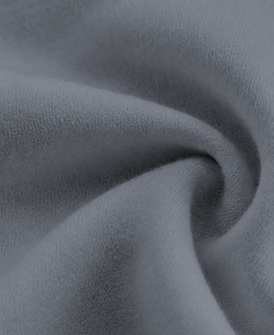
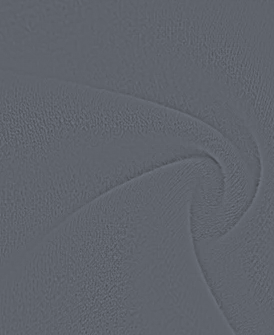
Corriger le flou/étiquette grisée sur les coloris Noir et Gris Bleu
La recoloration ancrait toute une photo sur UNE médiane de luminosité
globale calculée sur tout le t-shirt. L'étiquette intérieure (tissu
clair, texte imprimé) est un matériau bien plus petit et bien plus
contrasté localement que le grand pan de tissu du t-shirt — ancrée sur
la médiane globale du t-shirt, elle ressortait en gris délavé et flou
au lieu d'un noir net avec texte clair, ce qui donnait aussi
l'impression générale d'un rendu flou.

Remplacé la médiane globale par une moyenne locale (petit voisinage
gaussien pondéré par le masque), pour que chaque zone — étiquette
comprise — s'ancre sur son propre contexte de luminosité au lieu de
celui de tout le vêtement.

Claude-Session: https://claude.ai/code/session_01JcT3HfdB21VBu6dsokyrCK

diff --git a/scripts/recolor-catalog.py b/scripts/recolor-catalog.py
@@ -115,22 +115,38 @@ def garment_mask(arr: np.ndarray) -> np.ndarray:
     return np.array(mask_img).astype(np.float64) / 255.0
 
 
+LOCAL_BASELINE_SIGMA_PX = 2
+
+
 def recolor_region(arr: np.ndarray, region_mask: np.ndarray, target_hex: str) -> np.ndarray:
     """Hue/lightness-shift pixels where region_mask > 0 toward target_hex,
-    anchoring the region's median lightness on the target so natural
-    shading (folds, shadow) is preserved around the new base tone."""
+    anchoring each pixel's *local* lightness baseline on the target so
+    natural shading (folds, shadow) is preserved around the new base tone.
+
+    The baseline is a mask-weighted local average (a small Gaussian
+    neighborhood), not one global median for the whole region: the woven
+    neck label sits right next to the shirt fabric but is a visibly
+    different material/lighting, so anchoring it on the *shirt's* median
+    pushed its lightish background toward mid-grey instead of a clean
+    dark tone on Noir/Gris Bleu — it read as a blurry, washed-out patch.
+    A local baseline lets the label (and anything else locally brighter
+    or darker than the garment around it) land on its own correct tone."""
     rgb = arr[:, :, :3].astype(np.float64)
     gray = rgb.mean(axis=2) / 255.0
 
     weighted = region_mask > 0.05
     if not weighted.any():
         return arr
-    median = np.median(gray[weighted])
+
+    weighted_gray = ndimage.gaussian_filter(gray * weighted, LOCAL_BASELINE_SIGMA_PX)
+    weight_sum = ndimage.gaussian_filter(weighted.astype(np.float64), LOCAL_BASELINE_SIGMA_PX)
+    global_median = np.median(gray[weighted])
+    local_baseline = np.where(weight_sum > 1e-6, weighted_gray / np.maximum(weight_sum, 1e-6), global_median)
 
     target_r, target_g, target_b = hex_to_rgb01(target_hex)
     h, l, s = colorsys.rgb_to_hls(target_r, target_g, target_b)
 
-    deviation = gray - median
+    deviation = gray - local_baseline
     final_l = np.clip(l + deviation, 0.0, 1.0)
     out_rgb = hls_to_rgb_vectorized(h, final_l, s) * 255.0
     out_rgb = np.clip(out_rgb, 0, 255)
